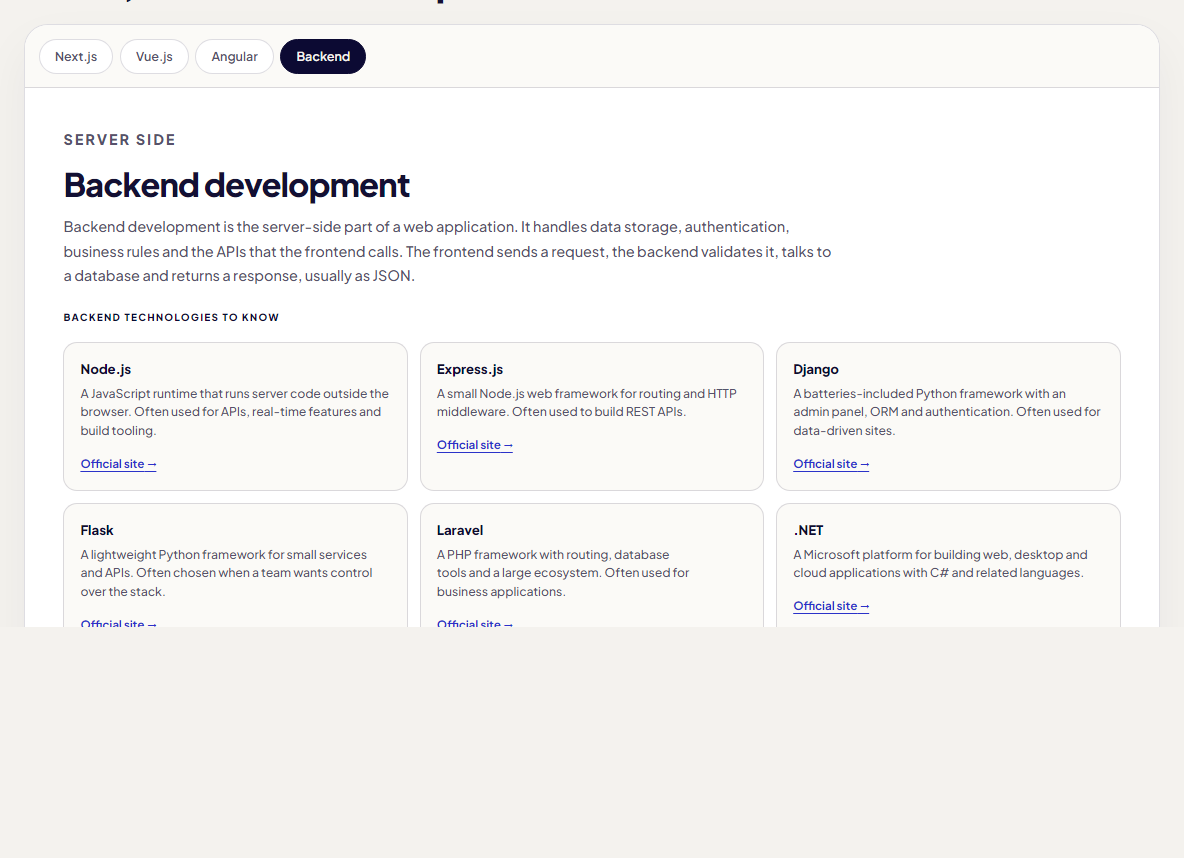
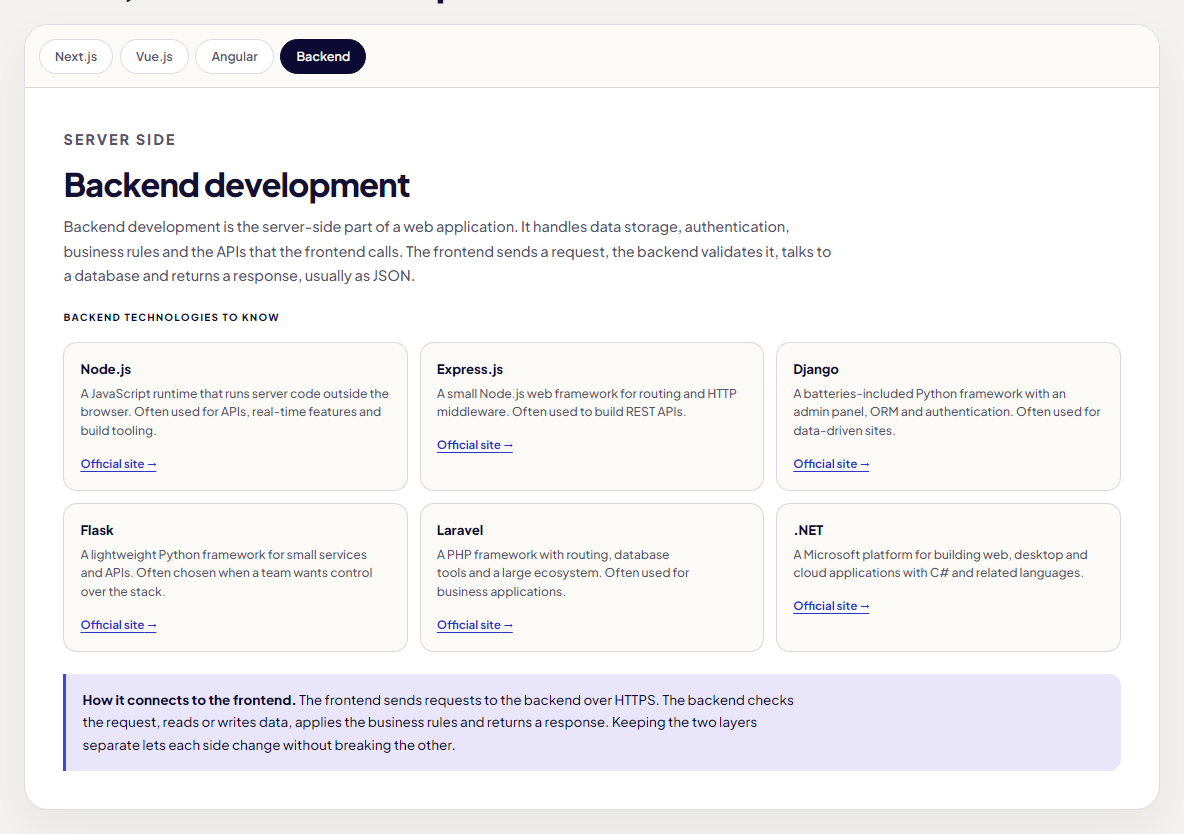
Make backend connection callout span the technology panel

diff --git a/script.js b/script.js
@@ -2092,7 +2092,7 @@
           "</article>";
       });
       html += "</div>";
-      html += '<p class="tech-connection"><strong>How it connects to the frontend.</strong> The frontend sends requests to the backend over HTTPS. The backend checks the request, reads or writes data, applies the business rules and returns a response. Keeping the two layers separate lets each side change without breaking the other.</p>';
+      html += '<div class="tech-connection"><p><strong>How it connects to the frontend.</strong> The frontend sends requests to the backend over HTTPS. The backend checks the request, reads or writes data, applies the business rules and returns a response. Keeping the two layers separate lets each side change without breaking the other.</p></div>';
     } else {
       html += "<h4>Common uses</h4><ul class=\"tech-uses\">";
       tech.uses.forEach(function (use) {

diff --git a/style.css b/style.css
@@ -6374,6 +6374,14 @@ body.dialog-open {
   line-height: 1.65;
 }
 
+.tech-connection p {
+  max-width: 74ch;
+  margin: 0;
+  color: inherit;
+  font-size: inherit;
+  line-height: inherit;
+}
+
 .tech-connection strong {
   color: var(--navy);
   font-weight: 800;
